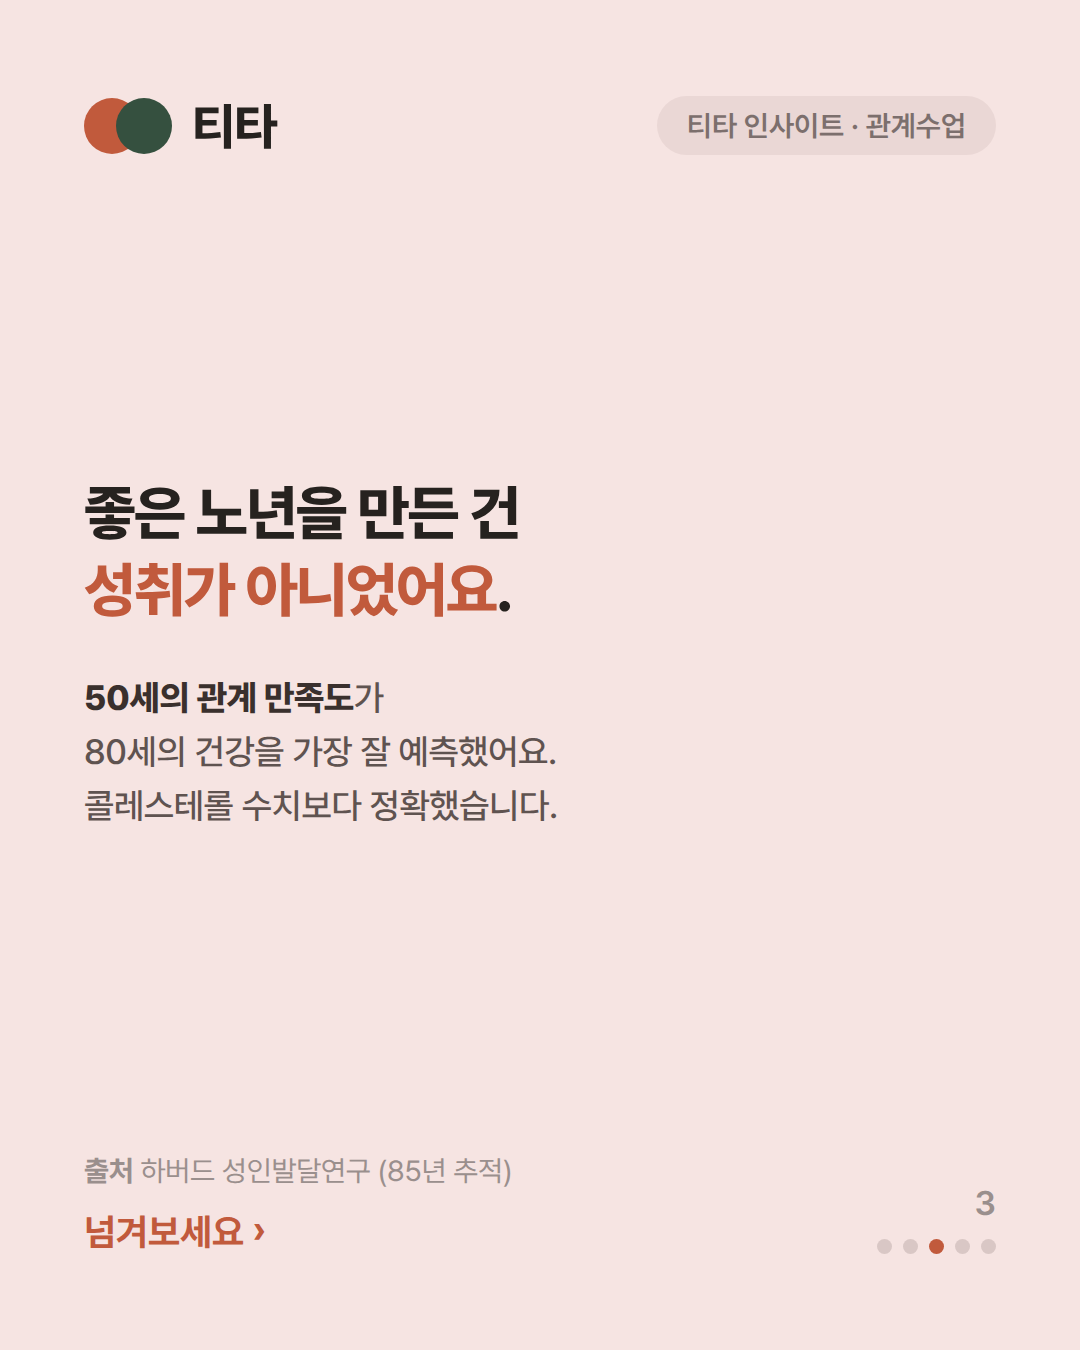
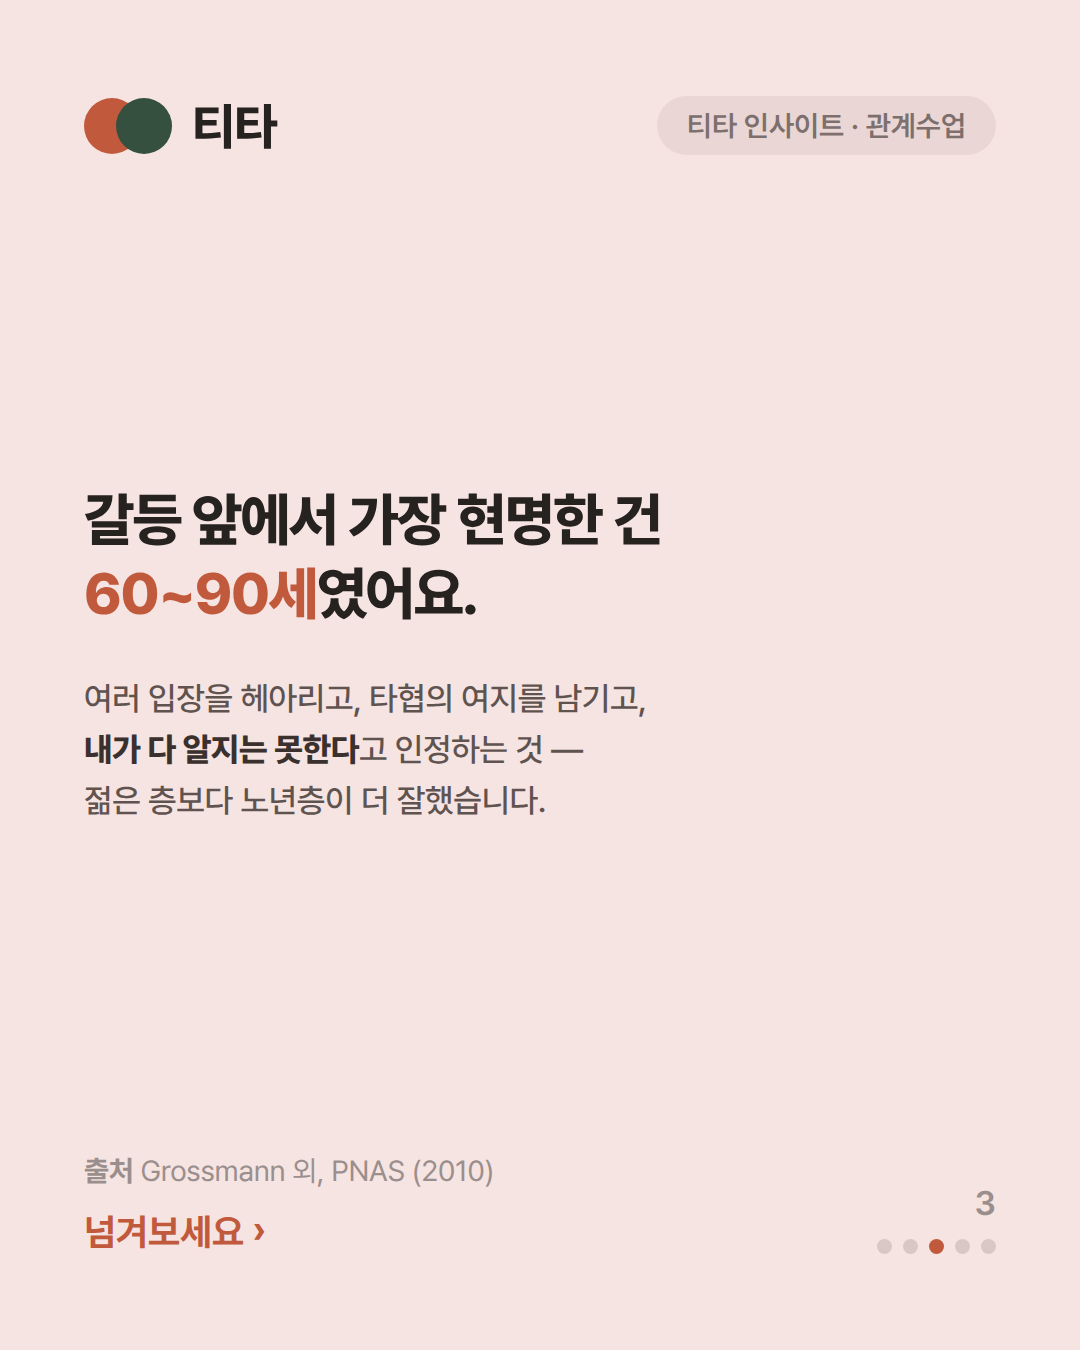
fix(blog): 이미 여러 번 쓴 자료를 걷어내고 새 연구로 다시 세운다
하버드 85년 추적은 단독 글이 이미 있고, 에릭슨의 생성감도 여러 글에서 썼다.
같은 자료를 조합만 바꿔 다시 내면 읽는 쪽에서 새로 배우는 게 없다. 셋 다
빼고 처음 쓰는 연구로 논지를 다시 세웠다.

- Roberts 외 (Psychological Bulletin, 2006): 종단연구 92개 메타분석. 성실성·
  정서 안정성은 성인기 내내 상승하고, 6개 특질 중 4개가 중년·노년에도 유의미
  하게 변한다. → "성숙은 노력이 아니라 이미 일어나고 있다"
- Grossmann 외 (PNAS, 2010): 사회적 갈등 추론에서 60~90세가 젊은·중년층보다
  우수. 여러 입장 고려·타협 여지·지식의 한계 인정. → 우리가 '멋진 어른'에게
  기대하는 게 정확히 이것이고, 이건 세월이 준다
- Levy 외 (JPSP, 2002): 50세 이상 660명 23년 추적, 나이듦을 긍정적으로 본
  사람이 7.5년 더 오래 살았다. 외로움까지 통제한 뒤에도 남은 차이

마무리 연결도 새로 잡았다. 그로스만이 잰 건 '사회적' 지혜라 상대가 있어야
성립하고, 레비의 자기인식은 주변이 나를 어떻게 대하는지가 쌓여 만들어진다.
그래서 곁이 비면 현명해질 기회도, 나를 비춰 볼 거울도 함께 사라진다.
훈계가 아니라 두 연구가 가리키는 조건으로 착지한다.

카드 2·3·4도 새 연구로 교체.

Claude-Session: https://claude.ai/code/session_01SVoaR1M7XWjiBzTKquaj1d

Changed region(s): [[0.0611, 0.4978, 0.6111, 0.6222], [0.0611, 0.3422, 0.6111, 0.4667], [0.1222, 0.84, 0.4583, 0.9022]]

diff --git a/src/app/blog/posts.ts b/src/app/blog/posts.ts
@@ -56,25 +56,29 @@ export const POSTS: BlogPost[] = [
     slug: "you-dont-have-to-be-impressive",
     title: "멋진 어른이 된다는 건 어떤 걸까요 — 네, 멋질 필요는 없습니다",
     description:
-      "중년이 되면 한 번쯤 떠올리는 질문입니다. 그런데 연구는 다른 답을 내놓습니다. 심리적 웰빙 6요인, 하버드 85년 추적, 에릭슨의 생성감으로 읽는 ‘좋은 중년’.",
+      "중년이 되면 한 번쯤 떠올리는 질문입니다. 그런데 92개 추적연구와 60~90세 지혜 실험, 23년 수명 추적은 우리가 애쓰는 방향과 다른 곳을 가리킵니다.",
     date: "2026-08-07",
     category: "관계 인사이트",
     tags: [
       "중년",
       "5060",
-      "생성감",
-      "에릭슨",
+      "성숙",
+      "지혜",
+      "나이듦",
       "심리적 웰빙",
-      "하버드 성인발달연구",
       "어른",
-      "침체",
+      "노화 인식",
     ],
     cover: "/blog/insight-11/card-1.png",
     readingMinutes: 6,
     body: [
       {
         type: "p",
-        text: "멋진 어른이 된다는 건 어떤 걸까요. 중년쯤 되면 한 번씩 떠올리게 되는 질문입니다. 후배에게 존경받는 사람, 여전히 배우는 사람, 흐트러지지 않는 사람 — 대충 그런 그림이 떠오르실 겁니다. 그런데 심리학이 내놓는 답은 조금 다릅니다.",
+        text: "멋진 어른이 된다는 건 어떤 걸까요. 중년쯤 되면 한 번씩 떠올리게 되는 질문입니다. 후배에게 존경받는 사람, 여전히 배우는 사람, 흐트러지지 않는 사람 — 대충 그런 그림이 떠오르실 겁니다. 그리고 대개는 **아직 거기 못 갔다**는 기분으로 끝납니다.",
+      },
+      {
+        type: "p",
+        text: "그런데 이 질문을 오래 들여다본 연구들은, 우리가 애쓰는 방향과 조금 다른 곳을 가리킵니다.",
       },
       {
         type: "image",
@@ -82,68 +86,89 @@ export const POSTS: BlogPost[] = [
         alt: "멋진 어른이 된다는 건 어떤 걸까요 — 연구는 조금 다른 답을 내놓는다는 티타 인사이트 카드",
         caption: "티타 인사이트 · 관계수업 #11",
       },
-      { type: "h2", text: "잘 해내는 힘은 커지는데, 자라는 느낌은 줄어든다" },
-      {
-        type: "p",
-        text: "심리학자 캐럴 리프는 사람의 안녕감을 여섯 가지로 나눠 봤습니다. 자율성, 환경을 다루는 힘, 개인적 성장, 타인과의 긍정적 관계, 삶의 목적, 자기 수용. 이 여섯 가지가 나이에 따라 어떻게 변하는지를 추적한 연구들은 **한 방향으로만 움직이지 않는다**는 사실을 보여줍니다.",
-      },
+      { type: "h2", text: "성숙은 노력이 아니라, 이미 일어나고 있다" },
       {
         type: "image",
         src: "/blog/insight-11/card-2.png",
-        alt: "환경을 다루는 힘과 자율성은 올라가고 삶의 목적과 개인적 성장은 내려간다는 심리적 웰빙 연구 티타 인사이트 카드",
-        caption: "Ryff, 심리적 웰빙 6요인",
+        alt: "성숙은 노력이 아니라 이미 일어나고 있다 — 92개 종단연구 메타분석에서 성실성과 정서적 안정이 나이 들수록 올라간다는 티타 인사이트 카드",
+        caption: "Roberts 외, 92개 종단연구 메타분석 (2006)",
       },
       {
         type: "p",
-        text: "**환경을 다루는 힘과 자율성은 중년까지 꾸준히 올라갑니다.** 일을 처리하는 요령이 생기고, 남 눈치를 덜 보게 되고, 웬만한 일에는 흔들리지 않습니다. 우리가 흔히 ‘어른이 됐다’고 말하는 바로 그 부분입니다.",
+        text: "성격은 스물 몇 살에 굳는다는 말을 오래 믿어 왔습니다. 심리학자 브렌트 로버츠 연구팀은 이걸 확인하려고 **성인의 성격을 추적한 종단연구 92개를 모아** 메타분석했습니다. 결과는 반대였습니다.",
       },
       {
         type: "p",
-        text: "그런데 **삶의 목적과 개인적 성장은 반대로 내려갑니다.** 중년에서 노년으로 갈수록 그 낙폭이 커집니다. 잘 해내는 힘은 커지는데, 자라고 있다는 느낌과 무엇을 위해 살고 있다는 감각은 옅어지는 것입니다.",
+        text: "**성실성과 정서적 안정성은 성인기 내내 올라갔습니다.** 사회적 자신감도 그랬습니다. 여섯 개 특질 가운데 **네 개가 중년과 노년에도 유의미하게 변했습니다.** 우호성은 오히려 노년에 들어서야 뚜렷하게 올라갔습니다.",
+      },
+      {
+        type: "p",
+        text: "심리학은 이 흐름을 **성숙 원리(maturity principle)** 라고 부릅니다. 사람은 나이가 들면서 더 성실해지고, 덜 흔들리고, 더 무던해집니다. 결심해서가 아니라 그냥 그렇게 됩니다.",
       },
       {
         type: "callout",
-        text: "‘멋진 어른’이 되고 싶어지는 시기는, 정확히 이 두 곡선이 엇갈리는 지점입니다. 능력은 남았는데 방향이 흐려질 때, 우리는 그 빈자리를 ‘멋져 보이는 것’으로 채우려 합니다.",
+        text: "‘아직 멋진 어른이 못 됐다’는 기분의 상당 부분은, 이미 일어난 변화를 스스로 못 알아본 결과입니다.",
       },
-      { type: "h2", text: "그런데 좋은 노년을 만든 건 성취가 아니었다" },
+      { type: "h2", text: "갈등 앞에서 가장 현명한 건 60~90세였다" },
       {
         type: "image",
         src: "/blog/insight-11/card-3.png",
-        alt: "50세의 관계 만족도가 80세 건강을 가장 잘 예측했고 콜레스테롤 수치보다 정확했다는 하버드 성인발달연구 티타 인사이트 카드",
-        caption: "하버드 성인발달연구 (85년 추적)",
+        alt: "갈등 앞에서 가장 현명한 건 60~90세였다 — 여러 입장을 헤아리고 타협의 여지를 남기고 내가 다 알지 못한다고 인정하는 추론에서 노년층이 앞섰다는 티타 인사이트 카드",
+        caption: "Grossmann 외, PNAS (2010)",
       },
       {
         type: "p",
-        text: "하버드 성인발달연구는 1938년부터 같은 사람들의 인생을 85년 넘게 따라갔습니다. 이 연구가 찾아낸 가장 강력한 예측 변수는 소득도, 직위도, 명성도 아니었습니다. **50세 무렵의 관계 만족도**였습니다. 그때 관계에 만족했던 사람이 80세에 가장 건강했습니다.",
+        text: "우리가 ‘멋진 어른’에게서 실제로 기대하는 건 아마 지혜일 겁니다. 이고르 그로스만 연구팀은 그걸 재 봤습니다. 사람들에게 집단 간 갈등과 개인 간 갈등에 관한 이야기를 읽히고, **이 갈등이 앞으로 어떻게 흘러갈 것 같은지** 말하게 한 뒤, 그 추론의 질을 평가한 겁니다.",
       },
       {
         type: "p",
-        text: "연구를 이끈 로버트 월딩거는 이 결과가 **콜레스테롤 수치보다 정확했다**고 말합니다. 중년에 무엇을 이뤘는지는 노년의 건강을 거의 예측하지 못했고, 곁에 누가 있었는지가 예측했습니다.",
+        text: "젊은 층, 중년층, **60~90세** 노년층을 비교했습니다. 두 실험 모두에서 **노년층이 가장 현명하게 추론했습니다.** 구체적으로는 이런 방식이었습니다.",
       },
-      { type: "h2", text: "중년의 과제는 이루는 것이 아니라 남기는 것" },
+      {
+        type: "p",
+        text: "**여러 입장을 동시에 헤아렸고**, **타협의 여지를 열어 뒀고**, **자기가 아는 것에 한계가 있다는 점을 인정했습니다.** 젊을수록 한 편의 논리를 끝까지 밀어붙였다면, 나이 든 사람은 판을 넓게 봤습니다.",
+      },
+      {
+        type: "p",
+        text: "기억력이나 처리 속도 같은 건 분명히 느려집니다. 그런데 **사람 사이의 일을 읽는 능력은 반대 방향으로 갑니다.** 그리고 이건 학원에서 배우는 게 아니라 겪어야 생깁니다.",
+      },
+      { type: "h2", text: "그런데 빠지는 게 하나 있다" },
+      {
+        type: "p",
+        text: "그럼 나이만 먹으면 다 좋아지느냐 하면, 그렇지는 않습니다. 심리학자 캐럴 리프는 안녕감을 여섯 가지로 나눠 추적했는데, 이것들이 **한 방향으로 움직이지 않았습니다.**",
+      },
+      {
+        type: "p",
+        text: "**환경을 다루는 힘과 자율성은 중년까지 올라갑니다.** 일 처리에 요령이 생기고, 남 눈치를 덜 봅니다. 반면 **삶의 목적과 개인적 성장은 내려갑니다.** 중년에서 노년으로 갈수록 낙폭이 커집니다.",
+      },
+      {
+        type: "p",
+        text: "정리하면 이렇습니다. **잘 해내는 힘은 커지는데, 무엇을 위해 하는지는 흐려집니다.** ‘멋진 어른이 되고 싶다’는 마음이 드는 시기는 대개 이 두 곡선이 엇갈리는 지점입니다. 능력은 남았는데 방향이 안 보일 때, 우리는 그 빈자리를 ‘멋져 보이는 것’으로 채우려 합니다.",
+      },
+      { type: "h2", text: "7.5년을 가른 건 능력이 아니었다" },
       {
         type: "image",
         src: "/blog/insight-11/card-4.png",
-        alt: "중년의 과제는 남기는 것 — 생성감이 높을수록 삶의 만족은 높고 불안 우울은 낮았다는 티타 인사이트 카드",
-        caption: "Erikson · McAdams, 생성감 연구",
+        alt: "나이듦을 어떻게 보느냐가 7.5년을 갈랐다 — 660명을 23년 추적한 결과 나이 드는 자신을 긍정적으로 본 사람이 더 오래 살았다는 티타 인사이트 카드",
+        caption: "Levy 외, JPSP (2002)",
       },
       {
         type: "p",
-        text: "발달심리학자 에릭 에릭슨은 중년기(대략 40~65세)의 과제를 **생성감 대 침체**로 정리했습니다. 생성감(generativity)이란 다음 세대와 주변 사람을 돌보고, 자신이 가진 것을 건네려는 마음입니다. 거창한 유산이 아니라 **누군가에게 쓰이는 감각**에 가깝습니다.",
+        text: "예일대 베카 레비 연구팀은 50세 이상 **660명**을 **23년간** 추적했습니다. 처음에 물어본 건 단순했습니다. 나이 드는 자기 자신을 어떻게 보는가. ‘나이 들수록 쓸모없어진다’에 동의하는지 같은 문항이었습니다.",
       },
       {
         type: "p",
-        text: "댄 맥아담스를 비롯한 연구자들은 이걸 실제로 측정했습니다. 결과는 일관됐습니다. **생성감이 높은 사람일수록 삶의 만족도가 높았고, 불안·우울·신경증은 낮았습니다.** 사망 위험이 더 낮다는 보고까지 있습니다. 반대로 생성감을 이루지 못한 사람은 **침체(stagnation)** 를 겪습니다. 하루가 반복되고, 어디에도 쓰이지 않는다는 느낌입니다.",
+        text: "23년 뒤 사망 자료와 대조한 결과, **나이듦을 긍정적으로 본 사람이 그렇지 않은 사람보다 7.5년 더 오래 살았습니다.** 나이, 성별, 사회경제적 지위, **외로움**, 신체 기능까지 통제하고도 남은 차이였습니다. 연구팀은 그 사이를 잇는 것으로 **살고자 하는 의지**를 지목했습니다.",
       },
       {
         type: "p",
-        text: "여기서 눈여겨볼 점이 있습니다. 생성감은 **얼마나 대단한가**를 묻지 않습니다. 무엇을 이뤘는지가 아니라 무엇을 건넸는지를 봅니다. 조카에게 밥을 사주는 일, 후배의 전화를 받아주는 일, 아픈 친구를 병원에 데려다주는 일 — 전부 여기 들어갑니다.",
+        text: "7.5년은 금연이나 운동으로 얻는 것보다 큰 폭입니다. 무엇을 이뤘는지가 아니라 **나이 든 나를 어떤 사람으로 보는지**가 그만큼을 갈랐습니다.",
       },
       { type: "h2", text: "네, 멋질 필요는 없지요" },
       {
         type: "image",
         src: "/blog/insight-11/card-5.png",
-        alt: "네 멋질 필요는 없지요 — 침체는 못나서가 아니라 곁이 비어서 온다는 티타 인사이트 카드",
+        alt: "네 멋질 필요는 없지요 — 다만 지혜는 상대가 있어야 쓰인다는 티타 인사이트 카드",
         caption: "@titakorea",
       },
       {
@@ -152,19 +177,19 @@ export const POSTS: BlogPost[] = [
       },
       {
         type: "p",
-        text: "맞는 말씀입니다. 멋짐은 결국 남이 매기는 점수이고, 그 점수를 올리려 애쓰다 보면 오히려 더 외로워집니다. 존경받는 어른이 되겠다고 결심하실 필요는 없습니다. 저희도 그러시라고 권하고 싶지 않습니다.",
+        text: "맞는 말씀입니다. 멋짐은 결국 남이 매기는 점수이고, 그 점수를 올리려 애쓰다 보면 오히려 더 조급해집니다. 존경받는 어른이 되겠다고 결심하실 필요는 없습니다. 저희도 그러시라고 권하고 싶지 않습니다. 위 연구들이 말하는 것도 결국 **이미 되고 있으니 애쓰지 않아도 된다**는 쪽에 가깝습니다.",
       },
       {
         type: "p",
-        text: "다만 한 가지는 남습니다. 생성감이든 뭐든, 무언가를 건네려면 **건넬 사람이 있어야 한다**는 것입니다.",
-      },
-      {
-        type: "p",
-        text: "은퇴하고, 아이들이 독립하고, 부모를 보내고 나면 그 자리가 조용히 빕니다. 건넬 것이 없어진 게 아니라 건넬 상대가 없어진 것인데, 우리는 그걸 자기 탓으로 읽습니다. ‘내가 별거 아닌 사람이 됐구나’ 하고요.",
+        text: "다만 한 가지가 걸립니다. 그로스만이 잰 지혜는 **사회적** 지혜였습니다. 여러 입장을 헤아리고, 타협의 여지를 남기고, 내가 다 알지는 못한다고 인정하는 것 — 전부 **상대가 있어야 성립하는** 능력입니다.",
       },
       {
         type: "callout",
-        text: "침체는 못나서 오는 게 아닙니다. 곁이 비어서 옵니다.",
+        text: "갈등도 대화도 없는 자리에서는, 현명해질 기회조차 오지 않습니다.",
+      },
+      {
+        type: "p",
+        text: "레비의 연구도 비슷한 자리를 가리킵니다. 나이 드는 자신을 어떻게 볼지는 혼자 정하는 게 아닙니다. 주변이 나를 어떻게 대하는지가 쌓여서 만들어집니다. 은퇴하고, 아이들이 독립하고, 부모를 보내고 나면 그 자리가 조용히 빕니다. 그러면 나를 비춰 볼 거울도 같이 사라집니다.",
       },
       {
         type: "p",
@@ -182,36 +207,37 @@ export const POSTS: BlogPost[] = [
     sources: [
       {
         label:
-          "Carol D. Ryff, 심리적 웰빙 6요인 모형 — 환경 통제력·자율성은 중년까지 상승, 삶의 목적·개인적 성장은 중년 이후 하락 (MIDUS 종단 연구)",
+          "Roberts, Walton & Viechtbauer, 「Patterns of Mean-Level Change in Personality Traits Across the Life Course」 (Psychological Bulletin, 2006) — 92개 종단표본 메타분석. 성실성·정서 안정성·사회적 자신감 상승, 6개 특질 중 4개가 중년·노년에도 유의미하게 변화",
+        url: "https://pubmed.ncbi.nlm.nih.gov/16435954/",
+      },
+      {
+        label:
+          "Grossmann, Na, Varnum, Park, Kitayama & Nisbett, 「Reasoning about social conflicts improves into old age」 (PNAS, 2010) — 60~90세가 젊은·중년층보다 사회적 갈등 추론에서 우수",
+        url: "https://www.pnas.org/doi/10.1073/pnas.1001715107",
+      },
+      {
+        label:
+          "Levy, Slade, Kunkel & Kasl, 「Longevity Increased by Positive Self-Perceptions of Aging」 (JPSP, 2002) — 50세 이상 660명 23년 추적, 7.5년 차이. 연령·성별·사회경제적 지위·외로움·신체기능 통제 후에도 유지",
+        url: "https://pubmed.ncbi.nlm.nih.gov/12150226/",
+      },
+      {
+        label:
+          "Carol D. Ryff, 심리적 웰빙 6요인 모형 (MIDUS 종단) — 환경 통제력·자율성은 중년까지 상승, 삶의 목적·개인적 성장은 중년 이후 하락",
         url: "https://midus.wisc.edu/findings/pdfs/864.pdf",
-      },
-      {
-        label:
-          "Harvard Study of Adult Development (1938~) — 50세의 관계 만족도가 80세 건강을 가장 잘 예측. Robert Waldinger",
-        url: "https://www.adultdevelopmentstudy.org/",
-      },
-      {
-        label:
-          "Erik Erikson, 생성감 대 침체(Generativity vs. Stagnation) — 중년기(약 40~65세)의 발달 과제",
-      },
-      {
-        label:
-          "Dan P. McAdams & Ed de St. Aubin (1992) 이후 생성감 연구 — 생성감이 높을수록 삶의 만족 높고 불안·우울·신경증 낮음",
-        url: "https://journals.sagepub.com/doi/10.1177/01650254231165837",
       },
     ],
     faq: [
       {
-        q: "중년에 ‘삶의 목적’이 흐려지는 게 정상인가요?",
-        a: "네. 리프의 심리적 웰빙 연구에 따르면 환경을 다루는 힘과 자율성은 중년까지 올라가는 반면, 삶의 목적과 개인적 성장은 중년 이후 내려갑니다. 잘 해내는 능력은 커지는데 자라는 느낌은 옅어지는 것이 일반적인 흐름입니다. 개인의 실패가 아닙니다.",
+        q: "나이가 들면 성격이 정말 변하나요?",
+        a: "변합니다. 92개 종단연구를 모은 메타분석(Roberts 외, 2006)에서 성실성과 정서적 안정성은 성인기 내내 올라갔고, 여섯 개 특질 중 네 개가 중년과 노년에도 유의미하게 변했습니다. 우호성은 노년에 들어 뚜렷하게 상승했습니다. 심리학은 이를 성숙 원리라고 부릅니다.",
       },
       {
-        q: "‘생성감’이 정확히 무엇인가요?",
-        a: "에릭슨이 말한 중년기의 발달 과제로, 다음 세대와 주변 사람을 돌보고 자신이 가진 것을 건네려는 마음입니다. 성취의 크기가 아니라 누군가에게 쓰이는 감각에 가깝습니다. 연구에서 생성감이 높은 사람은 삶의 만족도가 높고 불안·우울이 낮았습니다.",
+        q: "나이가 들면 판단력이 떨어지는 것 아닌가요?",
+        a: "영역에 따라 다릅니다. 기억력이나 처리 속도는 느려지지만, 사회적 갈등에 대한 추론은 반대입니다. PNAS(2010) 연구에서 60~90세가 젊은·중년층보다 더 현명하게 추론했습니다. 여러 입장을 헤아리고, 타협의 여지를 남기고, 자기 지식의 한계를 인정하는 방식이었습니다.",
       },
       {
-        q: "중년에 새 친구를 사귀는 게 정말 도움이 되나요?",
-        a: "하버드 성인발달연구에서 50세 무렵의 관계 만족도는 80세의 건강을 가장 잘 예측하는 변수였고, 콜레스테롤 수치보다 정확했습니다. 생성감 역시 건넬 상대가 있어야 성립합니다. 곁에 사람이 있는 것 자체가 중년 이후의 안녕감에 직접 작용합니다.",
+        q: "나이듦을 긍정적으로 보는 게 실제로 도움이 되나요?",
+        a: "예일대 연구팀이 50세 이상 660명을 23년간 추적한 결과, 나이 드는 자신을 긍정적으로 본 사람이 7.5년 더 오래 살았습니다. 연령·성별·사회경제적 지위·외로움·신체기능을 통제하고도 남은 차이였고, 연구팀은 살고자 하는 의지를 매개 요인으로 지목했습니다.",
       },
     ],
   },
